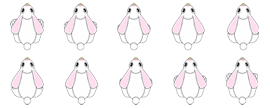
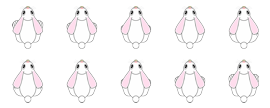
updated bunny graphic

diff --git a/Capstone Project/Capstone Project/SpriteAnimator.cs b/Capstone Project/Capstone Project/SpriteAnimator.cs
@@ -55,7 +55,7 @@ namespace Capstone_Project
                                 Color.White, 
                                 enemy.getSpriteTurn, 
                                 new Vector2((54/2), (54/2)), 
-                                .7f, 
+                                1f,   // scaling of enemy
                                 SpriteEffects.None, 
                                 0);
 
